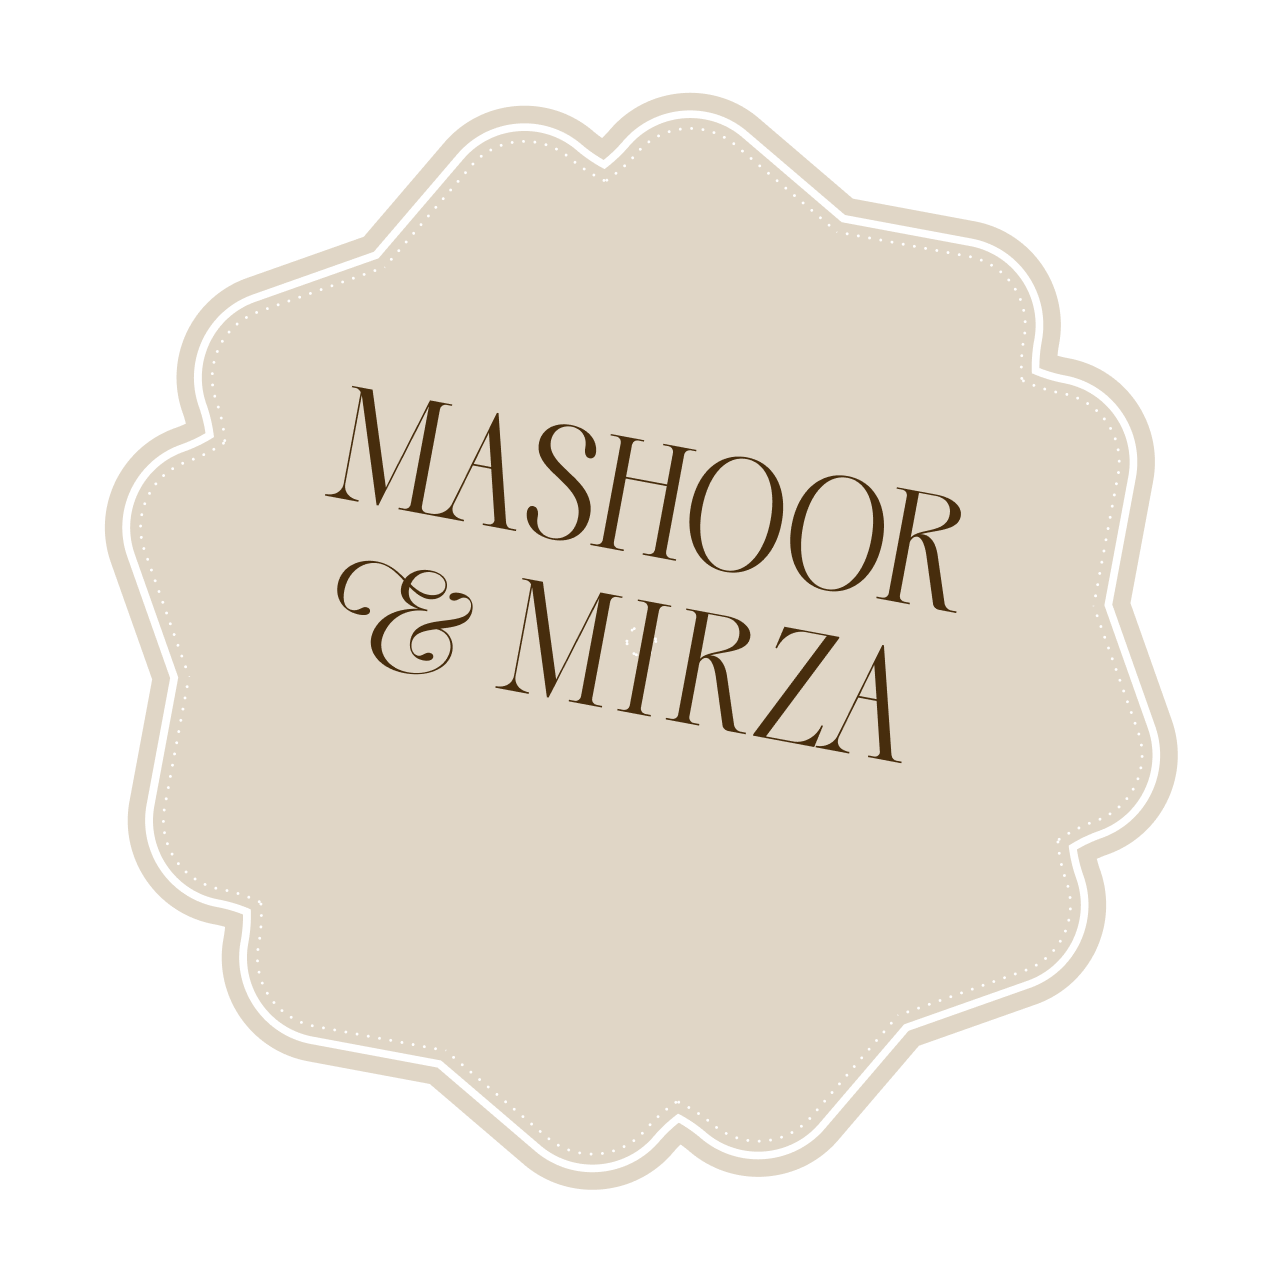
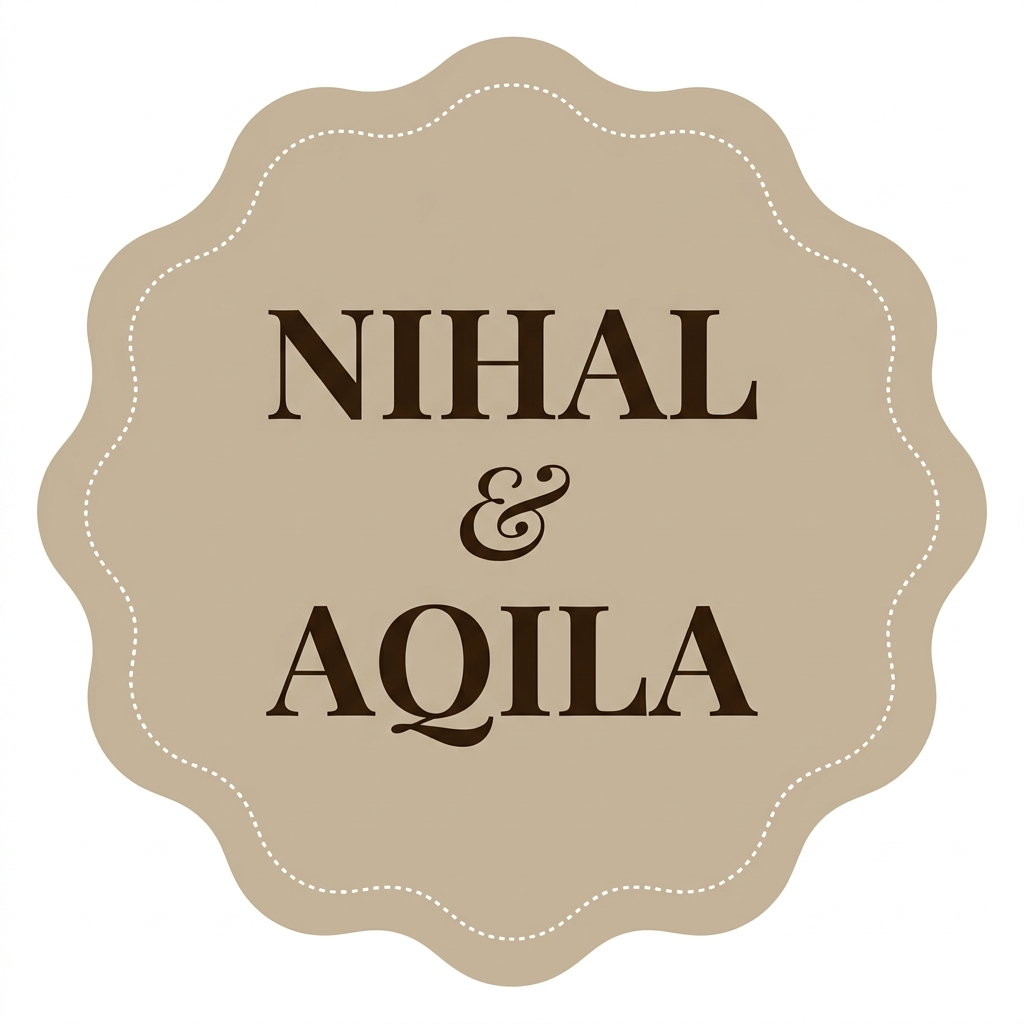
first commit

diff --git a/app/page.tsx b/app/page.tsx
@@ -4,7 +4,7 @@ import { Heart, MapPin } from 'lucide-react';
 import { Dialog, DialogContent, DialogTitle, DialogDescription, DialogTrigger, DialogClose } from '@/components/ui/dialog';
 const asset = (name: string) => `/assets/${name}.png`;
 const labels = ['DAYS', 'HOURS', 'MINUTES', 'SECONDS'];
-const weddingTime = new Date('2026-07-25T11:00:00+05:30').getTime();
+const weddingTime = new Date('2026-11-14T11:00:00+05:30').getTime();
 function remaining() {
   const seconds = Math.max(0, Math.floor((weddingTime - Date.now()) / 1000));
   return [Math.floor(seconds / 86400), Math.floor(seconds / 3600) % 24, Math.floor(seconds / 60) % 60, seconds % 60];
@@ -66,25 +66,21 @@ function Envelope() {
   </div></section>;
 }
 export default function Invitation() {
-  return <main className="paper-bg"><h1 className="sr-only">Mashoor & Mirza — Wedding Invitation</h1>
+  return <main className="paper-bg"><h1 className="sr-only">Nihal & Aqila — Wedding Invitation</h1>
     <div className="petals" aria-hidden="true">{Array.from({ length: 14 }, (_, i) => <span key={i} style={{ left: `${(i * 37 + 16) % 100}%`, width: `${9 + i % 9}px`, height: `${6 + i % 5}px`, animationDelay: `${(i * 1.7) % 12}s`, animationDuration: `${15 + i % 12}s` } as CSSProperties} />)}</div>
     <div className="invitation">
       <Fade delay={300} className="monogram"><img src={asset('logo-2')} alt="Mashoor & Mirza monogram" /></Fade>
-      <Fade delay={600} className="groom-parents"><p>S/O Mr. MUNEER OP & Mrs. SARA</p></Fade>
+      <Fade delay={600} className="groom-parents"><p>ADV. NIHAL BIN NOUSHAD<br />S/O Adv. PC NOUSHAD & Mrs. FATHIMA SHYMA</p></Fade>
       <Fade delay={900} className="names"><img src={asset('names')} alt="Mashoor & Mirza" /></Fade>
-      <Fade delay={1200} className="bride-parents"><p>D/O Mr. SATHIQUE PILAKANDY &<br />Mrs. SHABNA PK</p></Fade>
-      <Fade delay={1500} className="portrait"><div className="portrait-frame"><div className="portrait-ring inner" /><div className="portrait-ring outer" /><div className="portrait-crop"><img src={asset('couple-pic-new')} alt="Mashoor and Mirza" /></div></div></Fade>
+      <Fade delay={1200} className="bride-parents"><p>ADV. AQILA SHERIN<br />D/O MUJEEB C K & Mrs. FOUSIYA K K</p></Fade>
+      <Fade delay={1500} className="portrait"><div className="portrait-frame"><div className="portrait-ring inner" /><div className="portrait-ring outer" /><div className="portrait-crop calligraphy-crop"><img src="/assets/arabic-monogram.jpg" alt="Nihal & Aqila Arabic calligraphy monogram" /></div></div></Fade>
       <div className="lace-panel"><img className="lace-art" src={asset('lace3')} alt="" aria-hidden="true" /><div className="event-content">
         <Fade delay={1800} className="event-date"><img src={asset('date')} alt="July 25, 2026" /></Fade>
-        <Fade delay={2100} className="nikkah-details"><p className="event-copy">NIKKAH ON SATURDAY AT <span className="time">11:00</span> AM,<br />AT MEHFIL AUDITORIUM, KUTTIYADI</p></Fade>
-        <Fade delay={2200} className="location"><a className="invitation-button" href="https://www.google.com/maps/search/?api=1&query=Mehfil+Auditorium+Kuttiyadi" target="_blank" rel="noopener noreferrer"><MapPin size={16} strokeWidth={1.5} />NIKKAH LOCATION</a></Fade>
-        <Fade delay={2250} className="reception-intro"><p className="event-copy">FOLLOWED BY RECEPTION<br />THE NEXT DAY</p></Fade>
-        <Fade delay={2400} className="event-date reception-date"><img src={asset('date2')} alt="July 26, 2026" /></Fade>
-        <Fade delay={2550} className="reception-details"><p className="event-copy">SUNDAY <span className="time">6:00</span> PM - <span className="time">9:30</span> PM,<br />AT LAUREL GARDEN, NEW MAHE,<br />THALASSERY</p></Fade>
-        <Fade delay={2650} className="location"><a className="invitation-button" href="https://maps.app.goo.gl/ad8VTMXiLcppPLoy7?g_st=com.google.maps.preview.copy" target="_blank" rel="noopener noreferrer"><MapPin size={16} strokeWidth={1.5} />RECEPTION LOCATION</a></Fade>
+        <Fade delay={2100} className="nikkah-details"><p className="event-copy">NIKKAH ON NOV 14, 2026 AT <span className="time">11:00</span> AM,<br />TOWN BANK AUDITORIUM, THALASSERY</p></Fade>
+        <Fade delay={2200} className="location"><a className="invitation-button" href="https://www.google.com/maps/search/?api=1&query=Town+Bank+Auditorium+Thalassery" target="_blank" rel="noopener noreferrer"><MapPin size={16} strokeWidth={1.5} />NIKKAH LOCATION</a></Fade>
         <Fade delay={2700} className="countdown-wrap"><Countdown /></Fade>
       </div></div>
-      <Fade delay={3150} className="wishes-section"><Wishes /><p>WE SEEK YOUR DUAS AND WARMLY<br />INVITE YOU TO CELEBRATE THIS<br />SPECIAL OCCASION WITH US.</p></Fade>
+      <Fade delay={3150} className="wishes-section"><Wishes /><p className="honour-text">We would be honoured by your presence and prayers as we begin this new chapter.</p><p>WE SEEK YOUR DUAS AND WARMLY<br />INVITE YOU TO CELEBRATE THIS<br />SPECIAL OCCASION WITH US.</p></Fade>
       <Fade delay={3150} className="dua"><img src={asset('dua')} alt="Barakallahu lakuma wa baraka alaikuma wa jama'a bainakuma fee khair" /></Fade>
       <Envelope />
       <Fade delay={3300} className="credit"><a href="https://www.instagram.com/loymir_?igsh=MWs1am9rbDBlbWdsMQ==" target="_blank" rel="noopener noreferrer"><svg width="16" height="16" viewBox="0 0 24 24" fill="none" stroke="currentColor" strokeWidth="1.5" strokeLinecap="round" strokeLinejoin="round" aria-hidden="true"><rect width="20" height="20" x="2" y="2" rx="5" /><path d="M16 11.37A4 4 0 1 1 12.63 8 4 4 0 0 1 16 11.37z" /><path d="M17.5 6.5h.01" /></svg>@LOYMIR E-INVITES</a></Fade>

diff --git a/app/globals.css b/app/globals.css
@@ -51,6 +51,7 @@ a { color: inherit; text-decoration: none; }
 .portrait-ring.outer { inset: -20px; }
 .portrait-crop { position: relative; overflow: hidden; border-radius: 50%; box-shadow: 0 20px 60px -30px rgba(90,58,26,.45); }
 .portrait-crop img { width: 100%; aspect-ratio: 3/4; object-fit: cover; transform: scale(1.08); }
+.calligraphy-crop img { aspect-ratio: 1/1; object-fit: contain; transform: scale(1); background: #faf8f4; padding: 8%; }
 .lace-panel { position: relative; margin-top: -46.67%; width: 115%; margin-inline: -7.5%; }
 .lace-art { position: absolute; inset: 0; width: 100%; height: 100%; max-width: none; pointer-events: none; animation: soft-in 1.2s ease both; }
 .event-content { position: relative; z-index: 1; padding: 58% 24px 64px; }
@@ -78,6 +79,7 @@ a { color: inherit; text-decoration: none; }
 .count-label { margin-top: 8px; font-size: 10px; letter-spacing: .2em; opacity: .7; }
 .wishes-section { position: relative; z-index: 2; margin: 48px auto 0; max-width: 292px; }
 .wishes-section > p { margin-top: 24px; font-size: 11px; line-height: 1.625; letter-spacing: .15em; text-align: center; }
+.honour-text { font-style: italic; font-size: 12.5px !important; letter-spacing: .04em !important; opacity: .85; }
 .dua { position: relative; margin-top: 48px; margin-bottom: 16px; padding-inline: 16px; display: flex; justify-content: center; }
 .dua img { width: 100%; max-width: 360px; }
 .envelope { position: relative; width: 100%; max-width: 420px; margin: 64px auto 0; }

diff --git a/app/layout.tsx b/app/layout.tsx
@@ -1,9 +1,21 @@
 import type { Metadata } from 'next';
 import './globals.css';
 export const metadata: Metadata = {
-  title: 'Mashoor & Mirza · Wedding Invitation · 25 July 2026',
-  description: 'Join us as we celebrate the wedding of Mashoor & Mirza on July 25, 2026 at Mehfil Auditorium, Kuttiyadi.',
+  title: 'Nihal & Aqila · Wedding Invitation · 14 November 2026',
+  description: 'Join us as we celebrate the Nikkah of Nihal & Aqila on November 14, 2026 at Town Bank Auditorium, Thalassery.',
   icons: { icon: '/assets/logo-2.png' },
+  openGraph: {
+    title: 'Nihal & Aqila · Wedding Invitation',
+    description: 'Nikkah · 14 November 2026 · Town Bank Auditorium, Thalassery',
+    images: [{ url: '/og-image.jpg', width: 1200, height: 630, alt: 'Nihal & Aqila Wedding Invitation' }],
+    type: 'website',
+  },
+  twitter: {
+    card: 'summary_large_image',
+    title: 'Nihal & Aqila · Wedding Invitation',
+    description: 'Nikkah · 14 November 2026 · Town Bank Auditorium, Thalassery',
+    images: ['/og-image.jpg'],
+  },
 };
 export default function RootLayout({ children }: { children: React.ReactNode }) {
   return <html lang="en"><body>{children}</body></html>;
